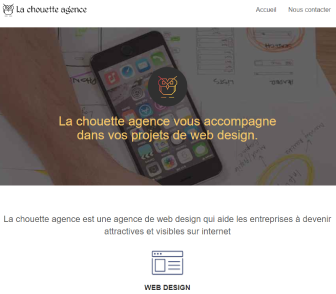
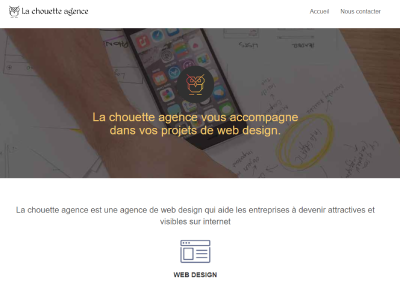
tobeprod?

diff --git a/src/styles/responsive/mobile.scss b/src/styles/responsive/mobile.scss
@@ -1,15 +1,11 @@
 @media screen and (max-width:767px) {
-    
-    // SETTINGS ------------------------
-    main{
-        min-height: 70vh;
-    }
 
-    // HEADER ------------------------
+    //SETTINGS ------------------------
+
+    //HEADER ------------------------
     .logo-container{
         display: flex;
         align-items: center;
-        margin-left: 0.2rem;
     }
 
     .nav-container{
@@ -25,6 +21,7 @@
         max-width: unset;
         width: 100%;
         border-radius: unset;
+        margin: auto;
     }
 
     //ABOUTME ------------------------
@@ -39,7 +36,7 @@
     }
 
     .head{
-        width: 90%;
+        width: 100%;
     }
 
     .cards{
@@ -75,8 +72,6 @@
         &-body{
             & .project{
                 width: 100%;
-                &:not(:last-child){
-                }
                 &:first-child{
                     margin-right: unset;
                     margin-bottom: unset;

diff --git a/src/styles/responsive/tablette.scss b/src/styles/responsive/tablette.scss
@@ -1,13 +1,11 @@
 @media screen and (max-width:991px) {
 
-    // SETTINGS ------------------------
+    //SETTINGS ------------------------
     main{
         min-height: 85vh;
-        &::after{
-        }
     }
 
-    // HEADER ------------------------
+    //HEADER ------------------------
     .nav-container{
         width: 40%;
     }

diff --git a/src/styles/pages/_aboutme.scss b/src/styles/pages/_aboutme.scss
@@ -1,6 +1,4 @@
 .about{
-    //margin: 2em auto;
-    min-width: none;
     max-width: none;
     border: none;
     border-radius: unset;
